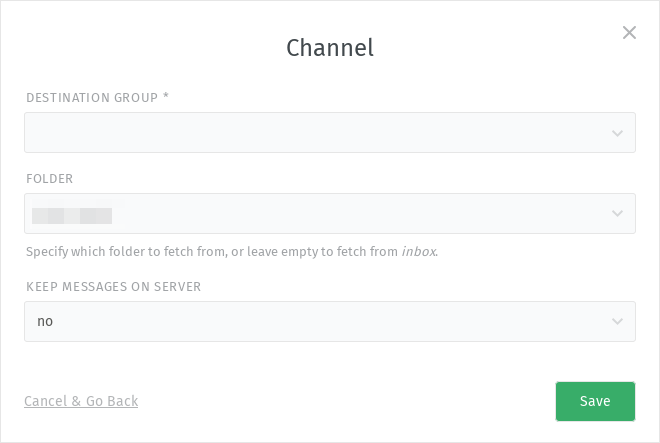
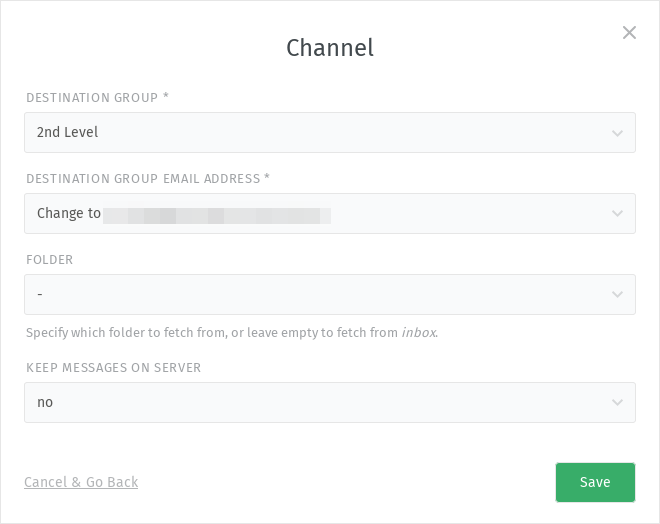
M365 Graph

diff --git a/channels/microsoft365-graph/accounts.rst b/channels/microsoft365-graph/accounts.rst
@@ -131,11 +131,22 @@ and confirm the requested permissions by clicking the **Accept** button.
   :alt: Screenshot shows Zammad's dialog for account configuration.
 
 After that, Zammad will ask you to assign a destination group. Select a group
-which should (initially) handle the incoming tickets of this channel. You can
-also specify a folder from which Zammad should fetch emails from. If you do so,
-make sure that the emails are routed to this folder somehow. Otherwise you won't
-receive tickets. Leave it empty to fetch all emails from the inbox. After that,
-choose if fetched emails should remain on the server or not.
+which should (initially) handle the incoming tickets of this channel.
+Additionally, you can decide if assign the email address should be assigned to
+the selected group for outgoing emails. Choose between:
+
+- **Change to ...** to add this
+  email address to the group for outgoing emails. This may overwrite an already
+  assigned email address.
+- **Do not change email address** if you don't want assign an email address to
+  the group or change it. If the group has no assigned email address, it stays
+  empty. If the group already has an assigned email address, it stays the same.
+
+You can also specify a folder from which Zammad should fetch emails from. If
+you do so, make sure that the emails are routed to this folder somehow.
+Otherwise, you won't receive tickets. Leave it empty to fetch all emails from
+the inbox. After that, choose if fetched emails should remain on the server or
+not.
 
 Depending if there are already email messages in this account, the archive mode
 dialog may be shown.
